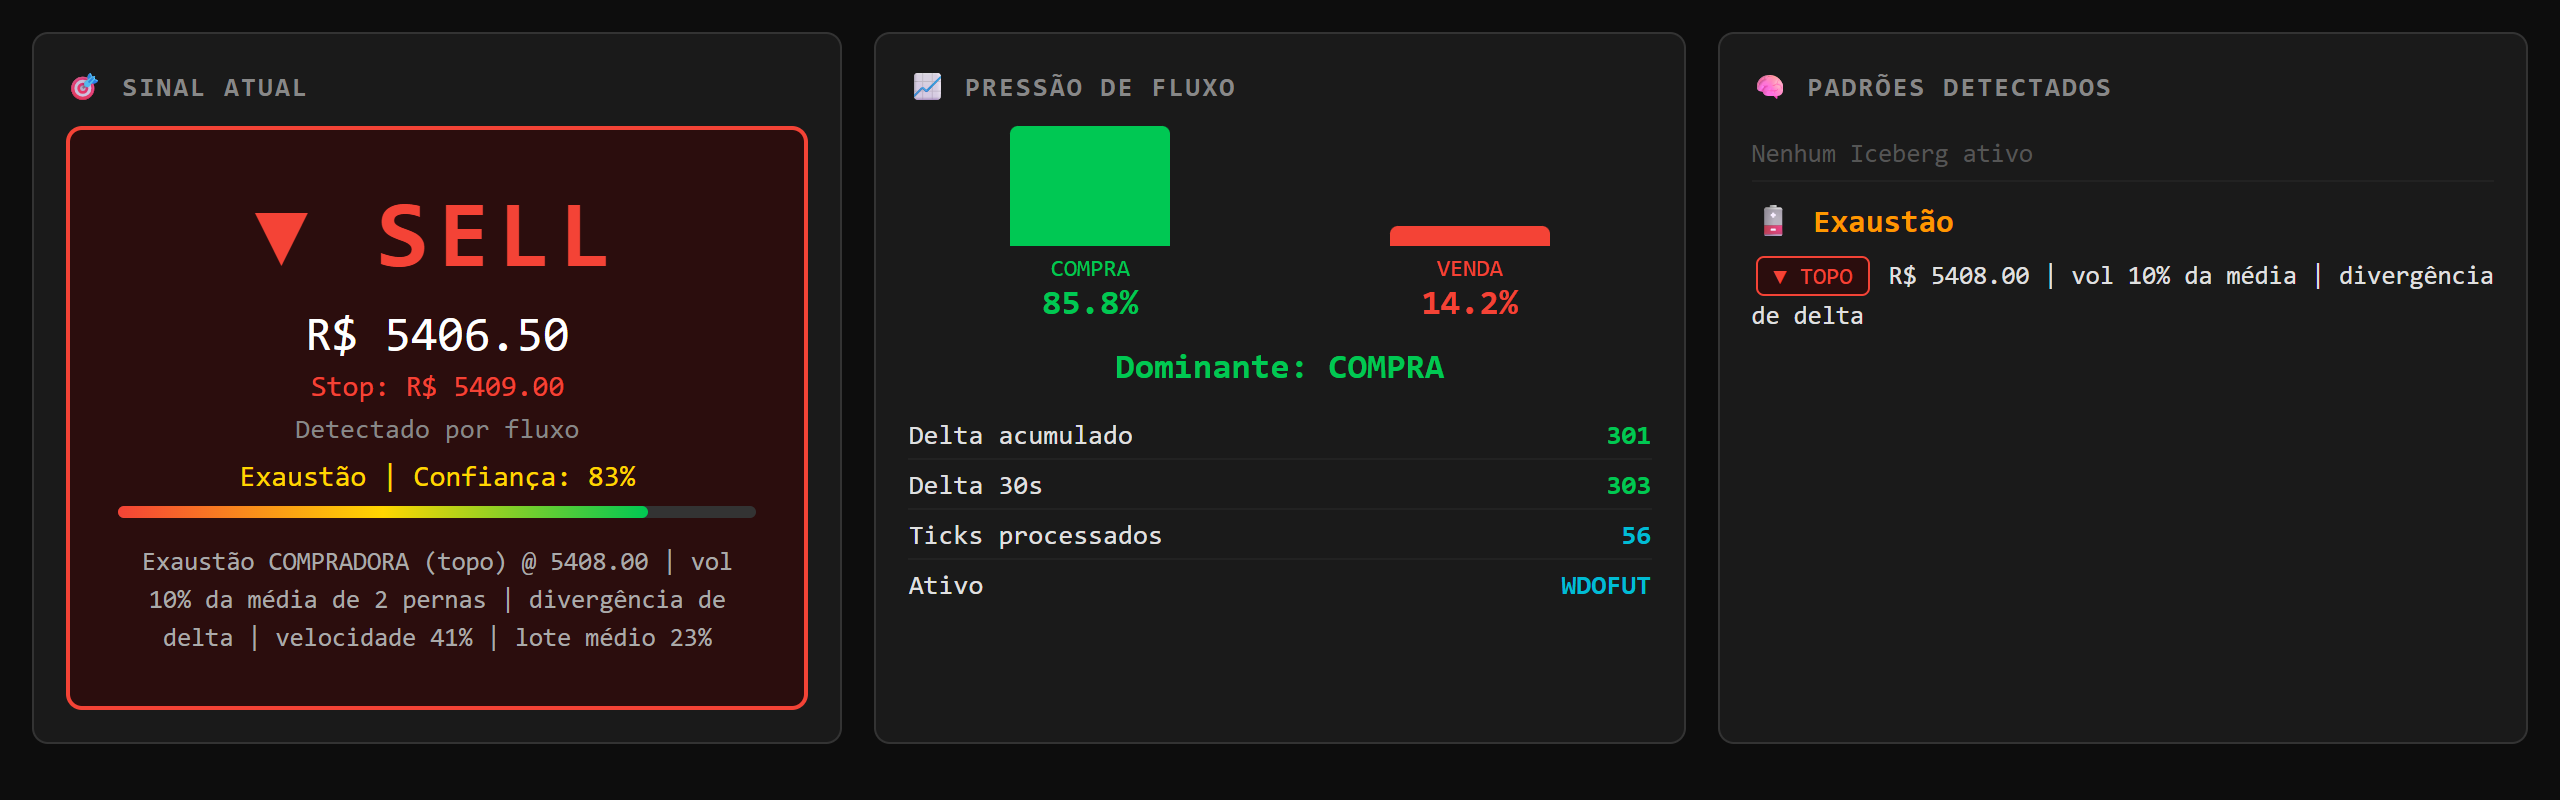
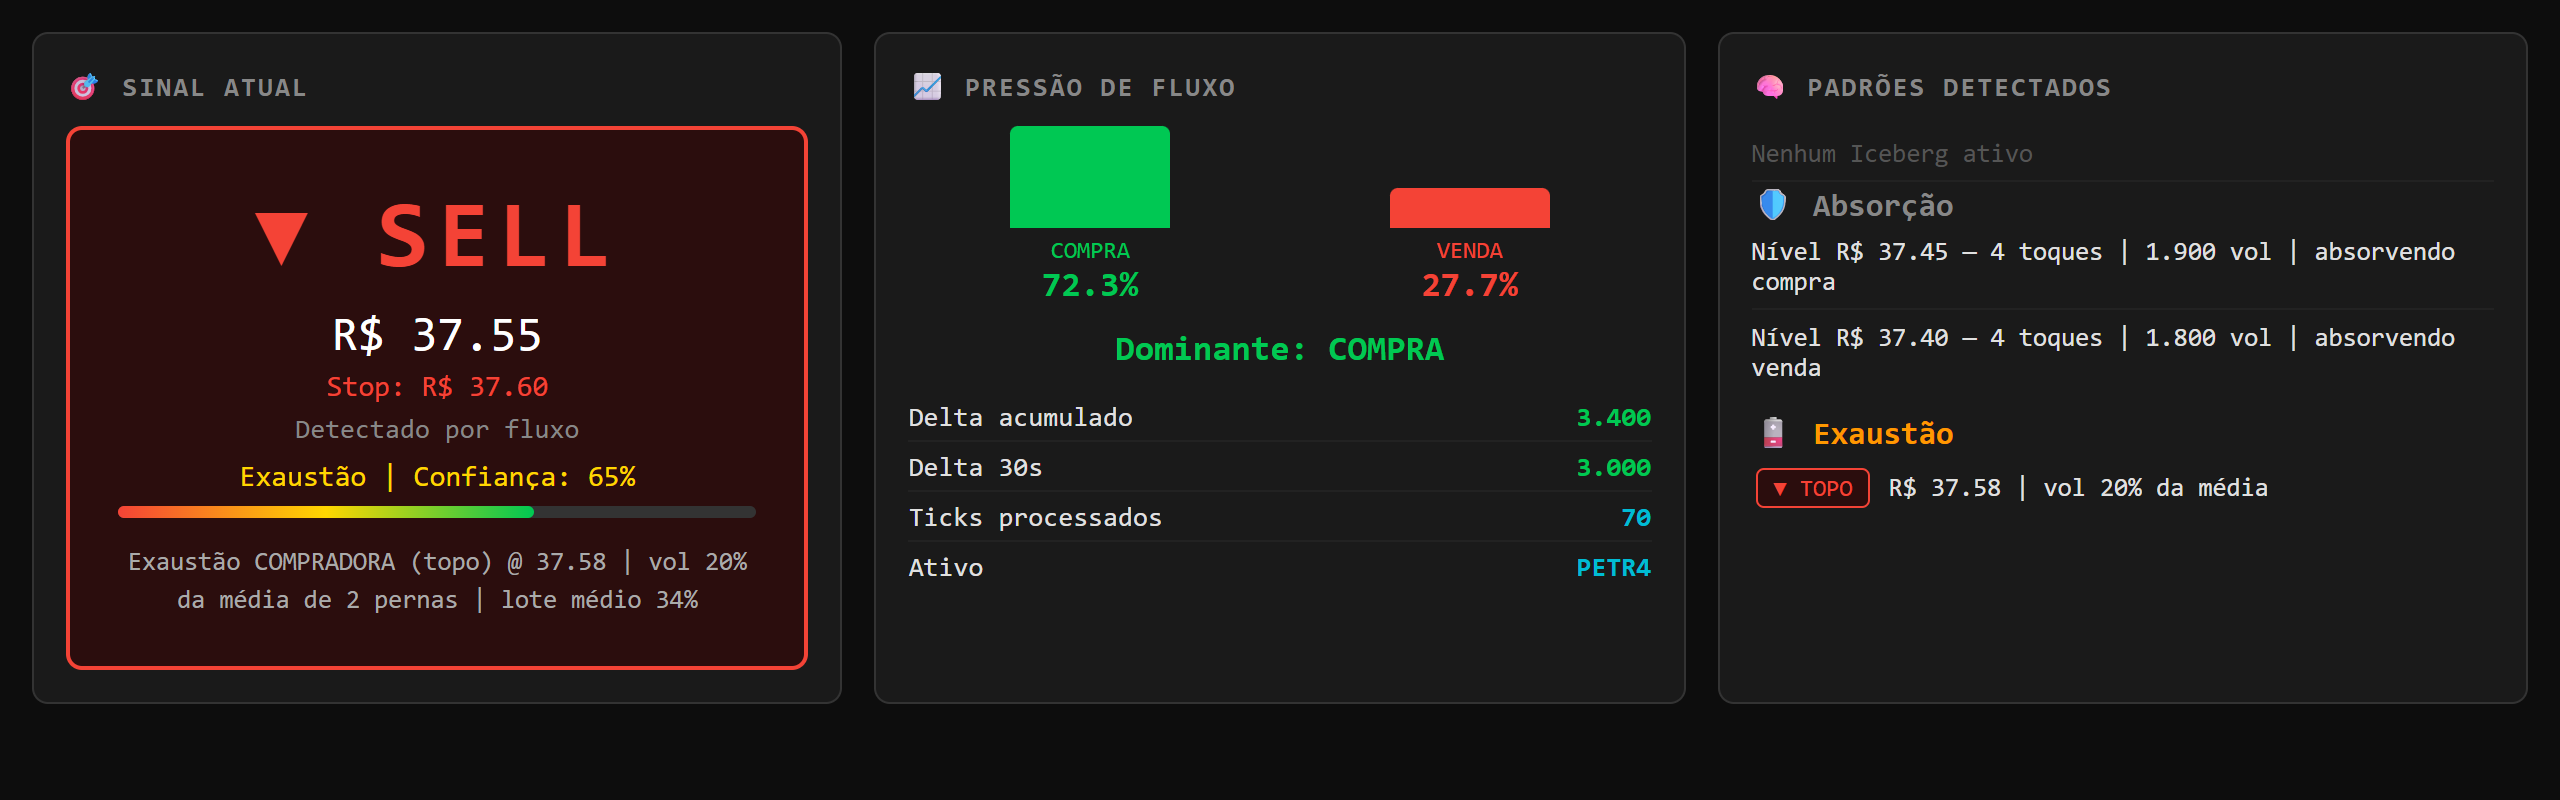
feat: animação com PETR4 (dados sintéticos) e ritmo mais lento
tools/gerar_exemplo_petr4.py gera um pregão sintético determinístico que
exercita iceberg pela passiva, exaustão, urgência e absorção; o exportador
virou genérico (ativo/tick) e o padrão passou a ser esse CSV. Animação ~3x
mais lenta; captura estática refeita com a PETR4.

diff --git a/index.html b/index.html
@@ -114,25 +114,25 @@
               <div class="ld-tape" aria-hidden="true"></div>
               <div class="ld-foot">
                 <button type="button" class="ld-play" aria-label="Pausar animação">❚❚</button>
-                <span class="ld-clock mono">10:00:02</span>
+                <span class="ld-clock mono">10:15:00</span>
                 <span class="ld-prog"><i></i></span>
-                <span class="ld-src mono">replay · exemplo_wdo.csv</span>
+                <span class="ld-src mono">replay · PETR4 · dados sintéticos</span>
               </div>
             </div>
             <img class="ld-static" src="img/dashboard.png" width="1280" height="400" loading="lazy" decoding="async"
-                 alt="Dashboard do Fluxo Server mostrando um sinal SELL por exaustão com 83% de confiança, preço 5406,50 e stop 5409, pressão de fluxo de 85,8% compra contra 14,2% venda, delta acumulado de 301 e o padrão de exaustão no topo em 5408.">
+                 alt="Dashboard do Fluxo Server com a PETR4 em dados sintéticos: sinal SELL por exaustão com 65% de confiança em 37,55 e stop 37,60, pressão de fluxo 72,3% compra contra 27,7% venda, delta acumulado de 3.400, absorções em 37,45 e 37,40 e exaustão no topo em 37,58.">
           </div>
           <div class="float float-a" aria-hidden="true">
             <span class="float-label">Delta acumulado</span>
-            <b class="buy-t" id="fa">+301</b>
+            <b class="buy-t" id="fa">+3.400</b>
           </div>
           <div class="float float-b" aria-hidden="true">
-            <span class="float-label" id="fb-l">Exaustão · topo</span>
-            <b id="fb">5408,00</b>
-            <span class="float-sub" id="fb-s">vol 10% da média · divergência de delta</span>
+            <span class="float-label" id="fb-l">Último sinal · SELL</span>
+            <b id="fb">37,55</b>
+            <span class="float-sub" id="fb-s">Exaustão · stop 37,60 · conf 65%</span>
           </div>
         </div>
-        <p class="shot-caption">Os números são do motor real processando o CSV de exemplo que acompanha o projeto (mini dólar, dados de exemplo, não de um pregão real), tocados mais rápido que o tempo real.</p>
+        <p class="shot-caption">Os números são do motor real processando um pregão sintético da PETR4 (dados inventados para a demonstração, não de um pregão real).</p>
       </div>
     </section>
 
@@ -448,9 +448,9 @@
           if (pausado || !visivel) return;
           quadro(i);
           var fim = i === Q.length - 1;
-          var espera = fim ? 2500 : Math.min(900, Math.max(70, (Q[i + 1].t - Q[i].t) / 14));
+          var espera = fim ? 4000 : Math.min(1600, Math.max(320, (Q[i + 1].t - Q[i].t) / 3));
           i = fim ? 0 : i + 1;
-          if (fim) setTimeout(function () { tape.innerHTML = ''; }, 2400);
+          if (fim) setTimeout(function () { tape.innerHTML = ''; }, 3900);
           timer = setTimeout(passo, espera);
         }
         function retomar() { if (!timer && !pausado && visivel) passo(); }

diff --git a/tools/gerar_exemplo_petr4.py b/tools/gerar_exemplo_petr4.py
@@ -1,0 +1,106 @@
+"""
+Gera um pregão SINTÉTICO da PETR4 (dados inventados, determinísticos) no formato
+de CSV do replay do Fluxo Server, para a animação da landing. Não é um pregão real.
+
+Roteiro (~8 min), pensado para exercitar os detectores com parâmetros de ação
+(tick R$ 0,01, lotes de 100):
+  1. acumulação em 37,40 com a mesma corretora passiva segurando a venda (iceberg comprador)
+  2. alta em três pernas, cada uma com menos agressão (exaustão no topo)
+  3. queda com um player vendendo em vários preços em poucos segundos (urgência)
+  4. agressão vendedora travada num nível (absorção) e repique
+
+Uso: python tools/gerar_exemplo_petr4.py [saida.csv]
+"""
+
+import csv
+import os
+import random
+import sys
+from datetime import datetime
+
+random.seed(20261014)
+
+CORRETORAS = ["XP INC", "BTG PACTUAL", "ITAU", "BRADESCO", "SANTANDER", "UBS", "SAFRA",
+              "GENIAL", "CLEAR", "MORGAN STANLEY", "JP MORGAN", "TORO", "INTER", "RICO"]
+INICIO = datetime(2026, 10, 13, 10, 15, 0).timestamp()
+
+linhas = []
+t = INICIO
+preco = 37.40
+
+
+def outro(*evitar):
+    return random.choice([c for c in CORRETORAS if c not in evitar])
+
+
+def neg(dt, p, qtd, lado, agressora=None, passiva=None):
+    """Um negócio dt segundos depois do anterior. lado: B (compra agride) ou S (venda agride)."""
+    global t, preco
+    t += dt
+    preco = round(p, 2)
+    ag = agressora or outro()
+    linhas.append([f"{t:.3f}", f"{preco:.2f}", qtd, lado, ag, passiva or outro(ag)])
+
+
+def lote():
+    return random.choice([100, 100, 100, 200, 200, 300, 500])
+
+
+# 1. Acumulação: ITAU passivo comprando em 37,40; vendedores batem e o preço não cai
+for i in range(26):
+    if i % 3 == 2:
+        neg(random.uniform(1.5, 3.0), 37.41, lote(), "B")
+    else:
+        neg(random.uniform(1.5, 3.5), 37.40, random.choice([200, 300, 500, 800]), "S", passiva="ITAU")
+
+# 2. Alta em três pernas, cada uma com menos agressão compradora; recuos de 4 centavos
+perna_topo = [37.48, 37.54, 37.58]
+perna_lote = [[800, 1000, 1200], [400, 500, 600], [100, 200]]
+inicio_perna = 37.41
+for k, topo in enumerate(perna_topo):
+    p = inicio_perna
+    while p < topo - 1e-9:
+        p = round(p + 0.01, 2)
+        neg(random.uniform(0.6, 1.6), p, random.choice(perna_lote[k]), "B")
+        if random.random() < 0.25:
+            neg(random.uniform(0.6, 1.5), p, 100, "S")
+    # recuo que fecha a perna (≥ 3 ticks)
+    for d in (0.01, 0.02, 0.03, 0.04):
+        neg(random.uniform(0.8, 1.8), topo - d, random.choice([100, 200]), "S")
+    inicio_perna = round(topo - 0.04, 2)
+
+# 3. Queda: BTG PACTUAL vendendo com urgência em vários preços seguidos
+p = preco
+for _ in range(7):
+    p = round(p - 0.01, 2)
+    neg(random.uniform(0.4, 1.2), p, random.choice([500, 800, 1000]), "S", agressora="BTG PACTUAL")
+for _ in range(8):
+    p = round(p - 0.01, 2)
+    neg(random.uniform(0.8, 2.0), p, lote(), "S")
+    if random.random() < 0.3:
+        neg(random.uniform(0.6, 1.4), p + 0.01, 100, "B")
+
+# 4. Absorção: muita venda batendo no mesmo preço sem passar; depois repique
+nivel = round(preco - 0.01, 2)
+for i in range(22):
+    if i % 4 == 3:
+        neg(random.uniform(1.0, 2.5), nivel + 0.01, lote(), "B")
+    else:
+        neg(random.uniform(1.0, 2.5), nivel, random.choice([500, 800, 1000, 1500]), "S")
+p = nivel
+for _ in range(9):
+    p = round(p + 0.01, 2)
+    neg(random.uniform(0.7, 1.6), p, random.choice([300, 500, 800]), "B")
+    if random.random() < 0.3:
+        neg(random.uniform(0.6, 1.4), p, 100, "S")
+for _ in range(10):
+    neg(random.uniform(1.5, 3.0), p + random.choice([-0.01, 0, 0.01]), lote(), random.choice("BS"))
+
+saida = sys.argv[1] if len(sys.argv) > 1 else os.path.join(
+    os.path.dirname(os.path.dirname(os.path.abspath(__file__))), "dados", "exemplo_petr4_sintetico.csv")
+os.makedirs(os.path.dirname(saida), exist_ok=True)
+with open(saida, "w", newline="", encoding="utf-8") as f:
+    w = csv.writer(f)
+    w.writerow(["timestamp", "preco", "quantidade", "agressor", "corretora_agressora", "corretora_passiva"])
+    w.writerows(linhas)
+print(f"{len(linhas)} negócios sintéticos, {(t - INICIO) / 60:.1f} min -> {saida}")

diff --git a/tools/exportar_replay.py b/tools/exportar_replay.py
@@ -3,10 +3,11 @@ Roda o motor do Fluxo Server sobre um CSV de negócios e exporta a evolução do
 estado (um quadro por negócio) para o mini-dashboard animado da landing.
 
 Uso:
-    python tools/exportar_replay.py <pasta do fluxo-server-profit> [csv] [saida]
+    python tools/exportar_replay.py <pasta do fluxo-server-profit> [csv] [saida] [ativo] [tick]
 
-Padrão: o CSV de exemplo do próprio projeto (replay/exemplo_wdo.csv, mini dólar,
-tick 0,5) e img/replay.json. Os números do JSON são os que o motor real calculou.
+Padrão: dados/exemplo_petr4_sintetico.csv (gerado por tools/gerar_exemplo_petr4.py),
+ativo PETR4, tick 0,01, saída img/replay.json. Os números do JSON são os que o motor
+real calculou sobre esse CSV.
 """
 
 import datetime
@@ -20,9 +21,11 @@ def main():
     if len(sys.argv) < 2:
         sys.exit(__doc__)
     raiz = os.path.abspath(sys.argv[1])
-    csv_path = sys.argv[2] if len(sys.argv) > 2 else os.path.join(raiz, "replay", "exemplo_wdo.csv")
-    saida = sys.argv[3] if len(sys.argv) > 3 else os.path.join(
-        os.path.dirname(os.path.dirname(os.path.abspath(__file__))), "img", "replay.json")
+    site = os.path.dirname(os.path.dirname(os.path.abspath(__file__)))
+    csv_path = sys.argv[2] if len(sys.argv) > 2 else os.path.join(site, "dados", "exemplo_petr4_sintetico.csv")
+    saida = sys.argv[3] if len(sys.argv) > 3 else os.path.join(site, "img", "replay.json")
+    ativo = sys.argv[4] if len(sys.argv) > 4 else "PETR4"
+    tick = float(sys.argv[5]) if len(sys.argv) > 5 else 0.01
 
     sys.path.insert(0, raiz)
     logging.disable(logging.CRITICAL)
@@ -30,8 +33,8 @@ def main():
     from config.conhecimento_videos import aplicar_conhecimento
     from replay.csv_ticks import ler_csv
 
-    # Mesma configuração do main.py no replay do exemplo (--tick-size 0.5)
-    engine = FlowEngine("WDOFUT", EngineConfig(tick_size=0.5))
+    # Mesma configuração do main.py (EngineConfig + conhecimento aplicado)
+    engine = FlowEngine(ativo, EngineConfig(tick_size=tick))
     aplicar_conhecimento(engine)
 
     ticks = ler_csv(csv_path).ticks
@@ -71,9 +74,9 @@ def main():
 
     dados = {
         "fonte": os.path.basename(csv_path),
-        "ativo": "WDOFUT",
+        "ativo": ativo,
         "inicio": datetime.datetime.fromtimestamp(t0).strftime("%H:%M:%S"),
-        "aviso": "Replay do CSV de exemplo do projeto. Dados de exemplo, não de um pregão real.",
+        "aviso": "Dados sintéticos de exemplo, não de um pregão real.",
         "quadros": quadros,
     }
     os.makedirs(os.path.dirname(saida), exist_ok=True)
